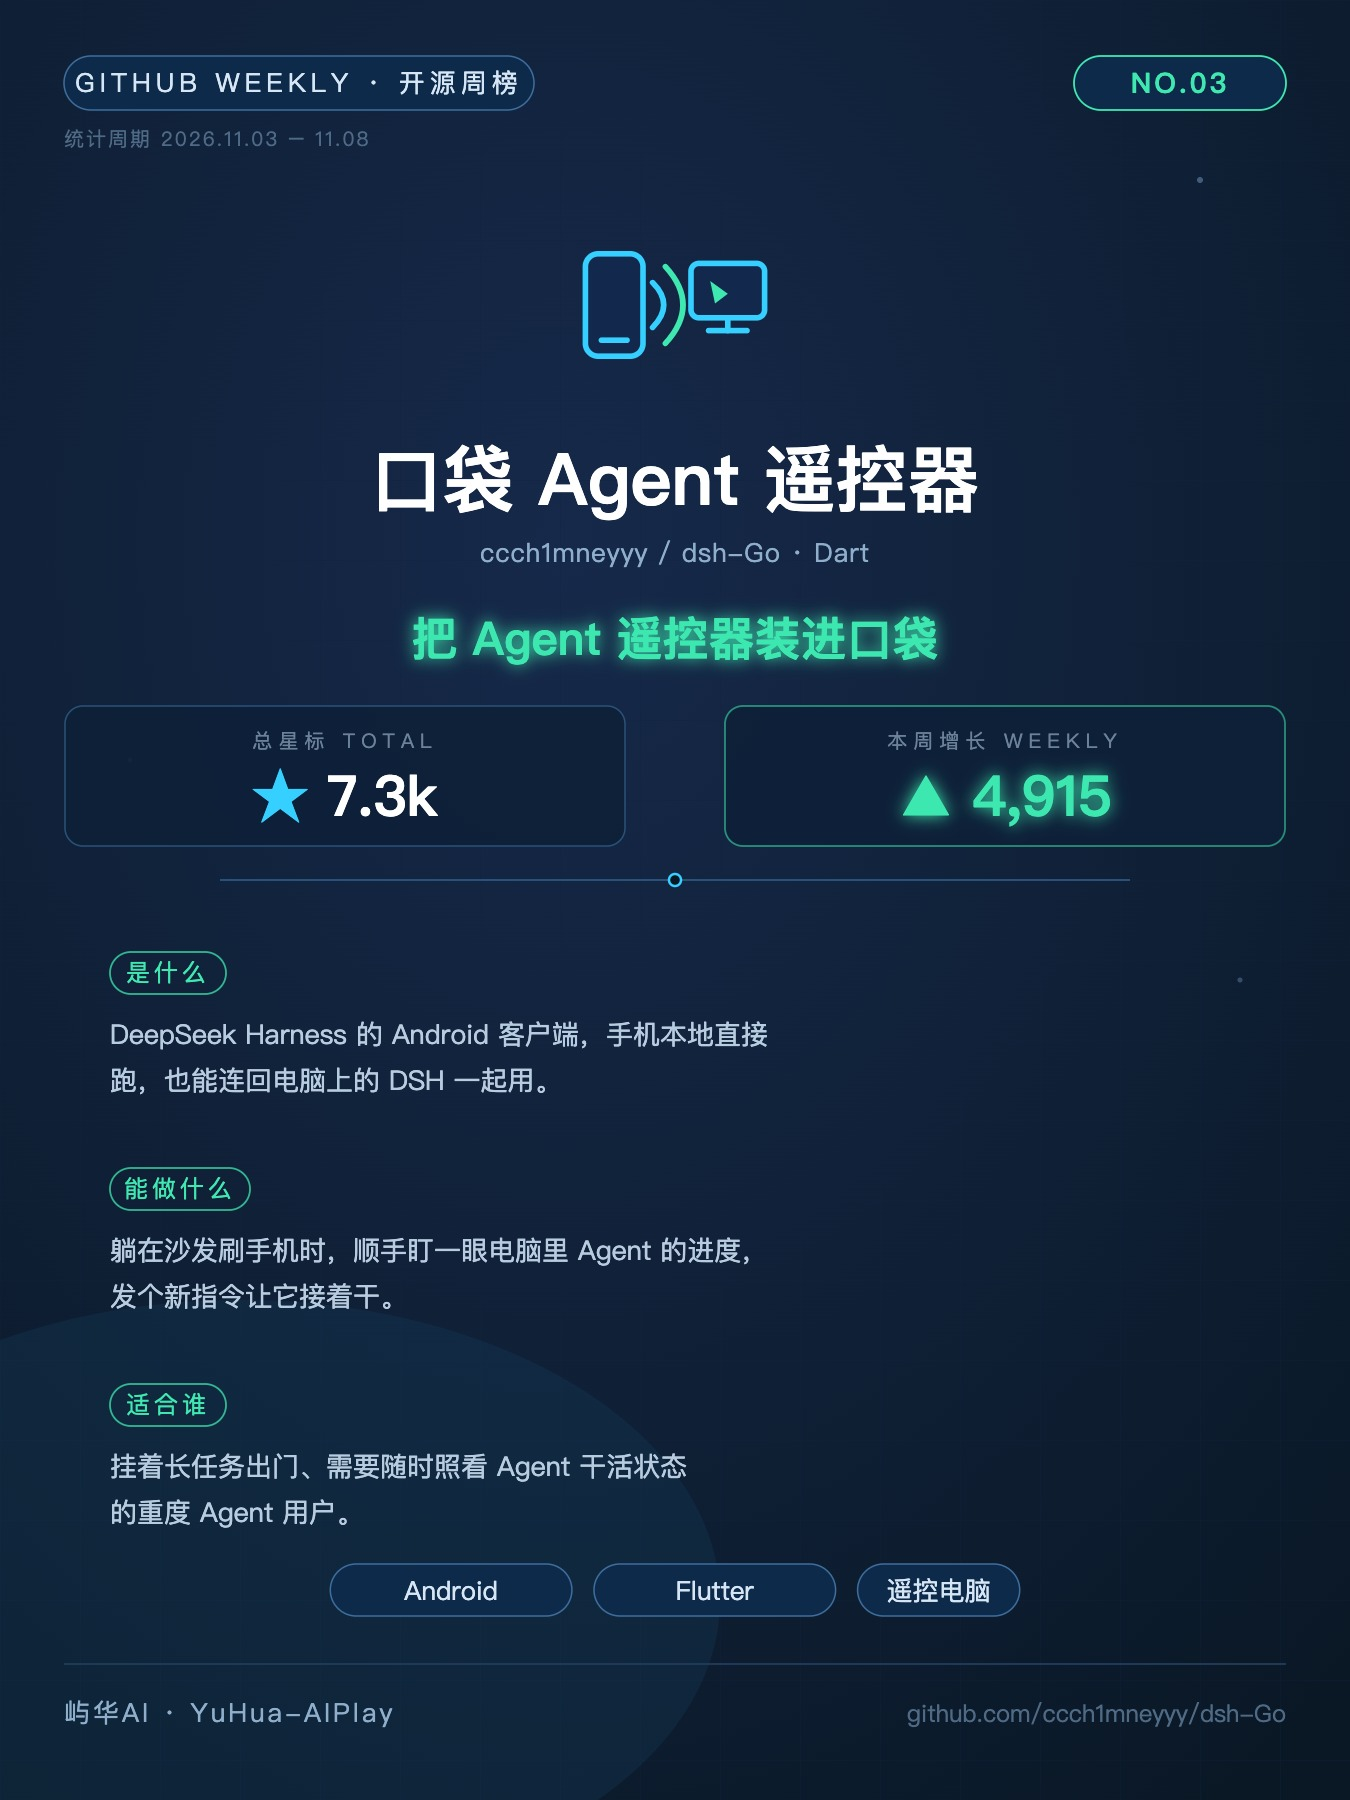
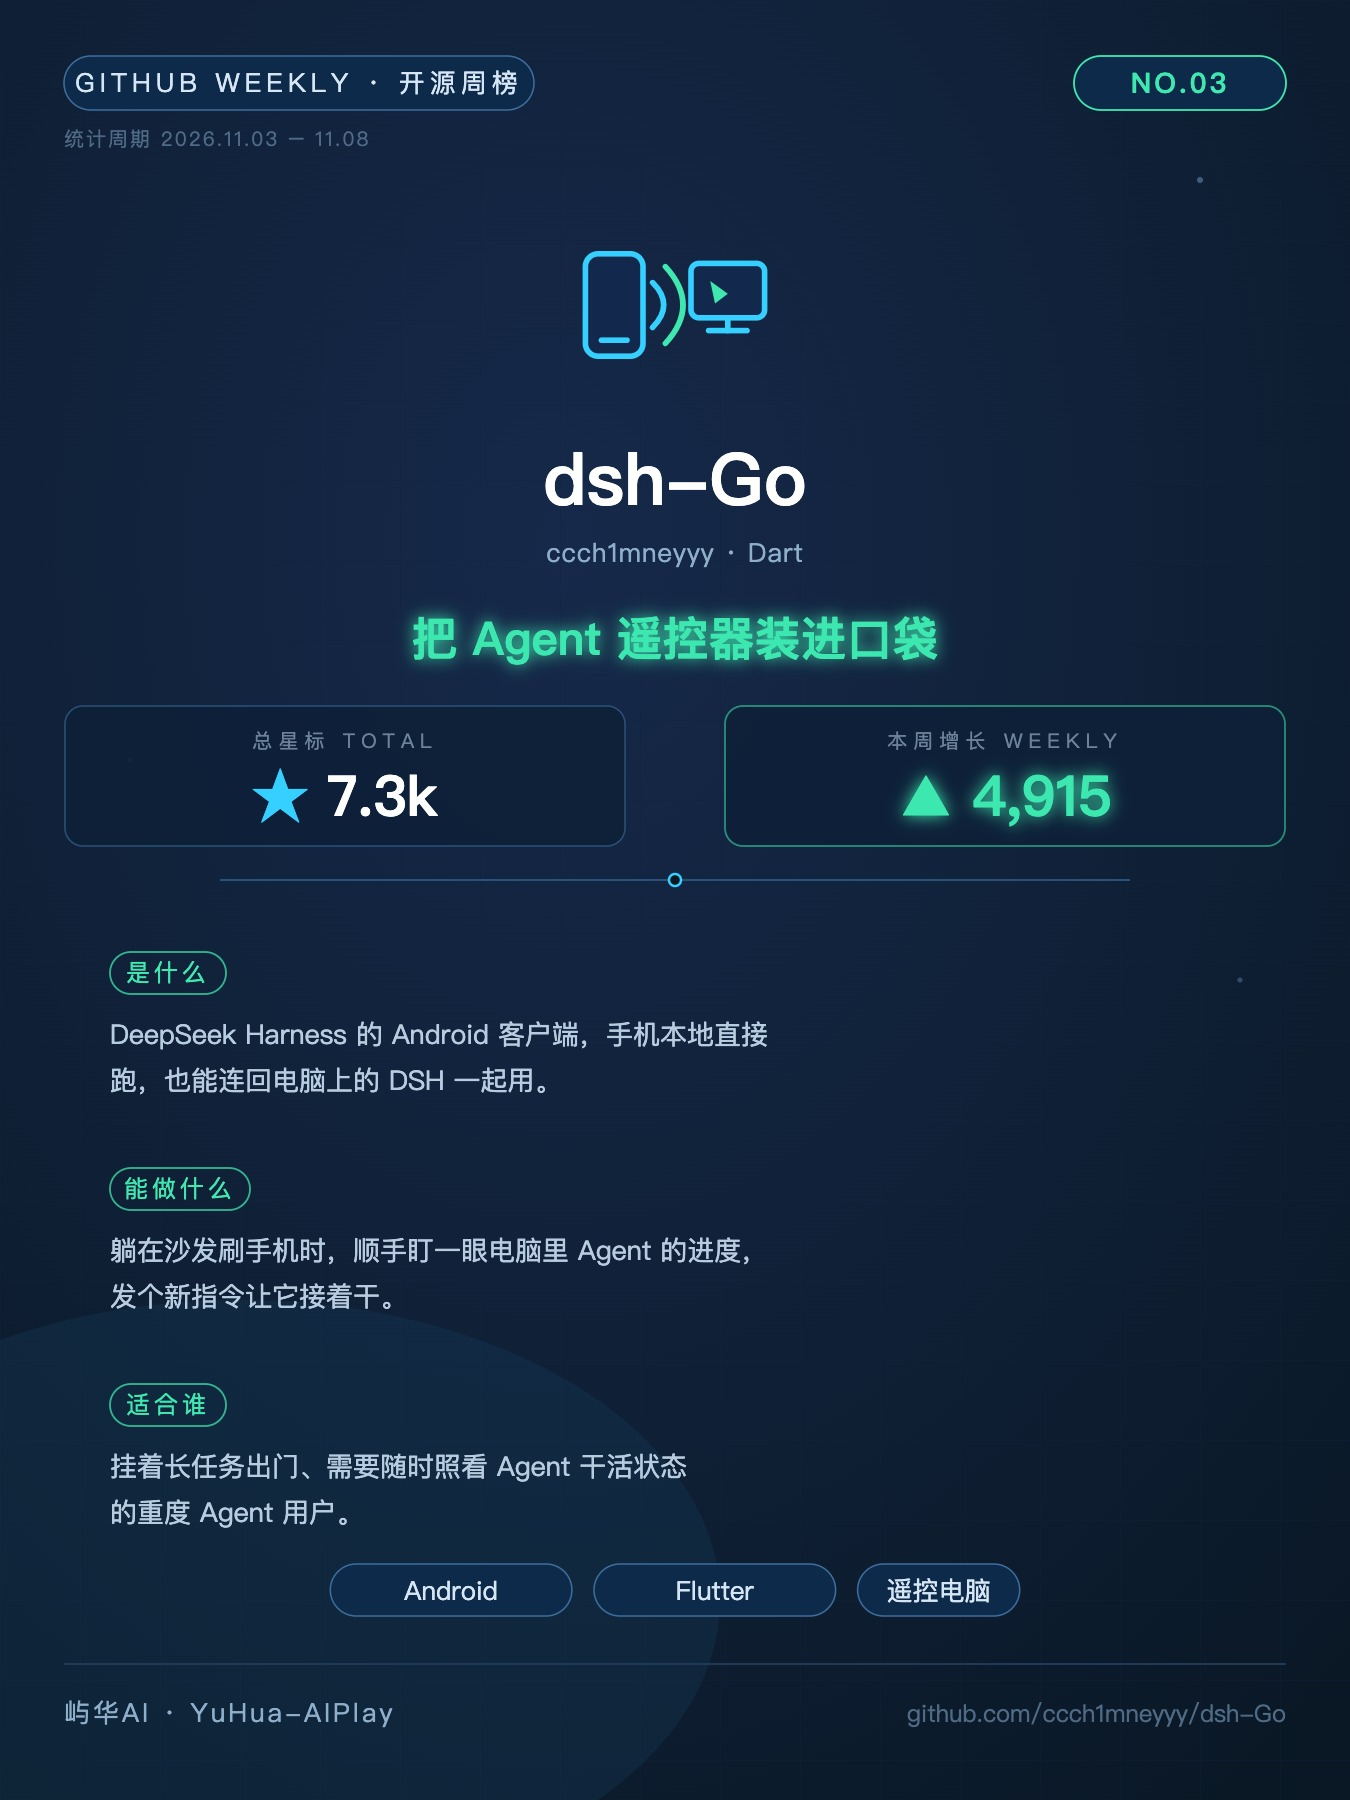
GitHub周榜: 子图大标题改用项目名（去中文概括，小字留作者·语言）
- 8 张子图标题统一为仓库原名（如 dsh-superagent-prototype），中文概括移除
- 标题下小字改为「作者 · 语言」，不再重复仓库全名
- 长项目名（>16 字符）标题自动降一档字号，防止撑爆宽度
- 8 张 JPG 重渲染，长标题卡（01/02）视觉核查通过

Changed region(s): [[0.28, 0.2489, 0.7467, 0.3111]]

diff --git a/drafts/GitHub周榜-本周涨星最快的8个开源项目/img-src/gen-cards.js b/drafts/GitHub周榜-本周涨星最快的8个开源项目/img-src/gen-cards.js
@@ -1,5 +1,5 @@
 // 生成 8 张竖版项目卡 SVG（1350×1800，同一模板换数据，保证风格一致）
-// 版式：中文标题 / 作者·仓库小字 / 一句话介绍 / 星数（总星标+周增长）/ 正文三段（是什么·能做什么·适合谁）
+// 版式：项目名标题 / 作者·语言小字 / 一句话介绍 / 星数（总星标+周增长）/ 正文三段（是什么·能做什么·适合谁）
 // 用法: node img-src/gen-cards.js  → 输出 img-src/01-xxx.svg … 08-xxx.svg
 const fs = require('fs');
 const path = require('path');
@@ -8,7 +8,7 @@ const { ICONS } = require('./icons');
 const CARDS = [
   {
     file: '01-dsh-superagent', icon: 'superagent', no: 1, owner: 'deepseek-ai',
-    repo: 'dsh-superagent-prototype', lang: 'TypeScript', cn: '超级 Agent 原型',
+    repo: 'dsh-superagent-prototype', lang: 'TypeScript',
     pitch: '迈向更自主的 Agent',
     total: '16.4k', growth: '14,286',
     what: ['DeepSeek 官方放出的研究原型，最大胆的一点：训练', '反馈全部由 AI 给出，没有人工标注——「AI 写的 AI」。'],
@@ -18,7 +18,7 @@ const CARDS = [
   },
   {
     file: '02-game-studios', icon: 'gamestudio', no: 2, owner: 'Donchitos',
-    repo: 'Claude-Code-Game-Studios', lang: 'Shell', cn: 'AI 游戏工作室',
+    repo: 'Claude-Code-Game-Studios', lang: 'Shell',
     pitch: '一句话，出一个能玩的游戏',
     total: '34.5k', growth: '6,071',
     what: ['把 Claude Code 变成完整游戏工作室：49 个 AI agent、', '72 项工作流技能，按真实工作室的层级分工协作。'],
@@ -28,7 +28,7 @@ const CARDS = [
   },
   {
     file: '03-dsh-go', icon: 'remote', no: 3, owner: 'ccch1mneyyy',
-    repo: 'dsh-Go', lang: 'Dart', cn: '口袋 Agent 遥控器',
+    repo: 'dsh-Go', lang: 'Dart',
     pitch: '把 Agent 遥控器装进口袋',
     total: '7.3k', growth: '4,915',
     what: ['DeepSeek Harness 的 Android 客户端，手机本地直接', '跑，也能连回电脑上的 DSH 一起用。'],
@@ -38,7 +38,7 @@ const CARDS = [
   },
   {
     file: '04-ub-mode', icon: 'skillfile', no: 4, owner: 'unclebob',
-    repo: 'ub-mode', lang: 'Skill 文件', cn: '大叔的工程纪律',
+    repo: 'ub-mode', lang: 'Skill 文件',
     pitch: '给 Agent 立工程纪律',
     total: '6.8k', growth: '4,603',
     what: ['《代码整洁之道》作者 Uncle Bob 出品的 Agent 技能，', '仓库里只有一份 SKILL.md，没有一行多余代码。'],
@@ -48,7 +48,7 @@ const CARDS = [
   },
   {
     file: '05-unslop', icon: 'uiwin', no: 5, owner: 'heydamir',
-    repo: 'unslop', lang: 'JavaScript', cn: '去 AI 味界面术',
+    repo: 'unslop', lang: 'JavaScript',
     pitch: '去掉界面的一眼 AI 味',
     total: '7.3k', growth: '3,945',
     what: ['一份通用界面设计技能，专治「一眼 AI」的模板脸：', '紫色渐变、到处发光、emoji 堆砌。'],
@@ -58,7 +58,7 @@ const CARDS = [
   },
   {
     file: '06-craft-anything', icon: 'craft', no: 6, owner: 'storytold',
-    repo: 'craft-anything', lang: 'Rust', cn: '桌面软件复刻机',
+    repo: 'craft-anything', lang: 'Rust',
     pitch: '看懂它，然后复刻它',
     total: '7.7k', growth: '3,836',
     what: ['Rust 桌面应用，内置 Study → Build → Check → Ready', '四步流水线，320 个工具个个是 CLI + MCP 双形态。'],
@@ -68,7 +68,7 @@ const CARDS = [
   },
   {
     file: '07-anatomy', icon: 'isoplay', no: 7, owner: 'wheresryan22',
-    repo: 'anatomy', lang: 'JavaScript', cn: '概念动画解剖图',
+    repo: 'anatomy', lang: 'JavaScript',
     pitch: '把概念画成会动的机器',
     total: '24.4k', growth: '3,391',
     what: ['一个 Agent 技能：把真实机器和复杂系统画成零件', '精确的等距插画，支持 SVG / WebGL / 3D 效果。'],
@@ -78,7 +78,7 @@ const CARDS = [
   },
   {
     file: '08-mika', icon: 'boltphone', no: 8, owner: 'wangzan101',
-    repo: 'Mika', lang: 'Kotlin', cn: '隐形屏端侧 Agent',
+    repo: 'Mika', lang: 'Kotlin',
     pitch: '手机里的贴身 Agent',
     total: '6.0k', growth: '3,339',
     what: ['Android 端侧 AI 助手：利用手机隐藏的后台屏替你', '操作 App 和网页，前台照常归你用。'],
@@ -135,6 +135,7 @@ function card(c) {
   const top3 = c.no <= 3;
   const noColor = top3 ? '#3EE8B0' : '#7FA8D0';
   const noStroke = top3 ? '#3EE8B0' : '#3E6E9E';
+  const titleFs = c.repo.length > 16 ? 54 : 72; // 长项目名缩小一档，防止撑爆宽度
   return `<svg xmlns="http://www.w3.org/2000/svg" viewBox="0 0 1350 1800" font-family="'PingFang SC','Hiragino Sans GB',sans-serif">
   <defs>
     <radialGradient id="bgGlow" cx="42%" cy="30%" r="85%">
@@ -166,9 +167,9 @@ function card(c) {
   <!-- 专属图标 -->
   <use href="#ic-${c.icon}" transform="translate(675 305) scale(1.6)"/>
 
-  <!-- 标题 + 作者/仓库小字 -->
-  <text x="675" y="505" text-anchor="middle" font-size="72" font-weight="800" fill="#FFFFFF">${c.cn}</text>
-  <text x="675" y="562" text-anchor="middle" font-size="26" letter-spacing="1" fill="#8FAECB">${c.owner} / ${c.repo} · ${c.lang}</text>
+  <!-- 项目名标题 + 作者·语言小字 -->
+  <text x="675" y="505" text-anchor="middle" font-size="${titleFs}" font-weight="800" fill="#FFFFFF">${c.repo}</text>
+  <text x="675" y="562" text-anchor="middle" font-size="26" letter-spacing="1" fill="#8FAECB">${c.owner} · ${c.lang}</text>
 
   <!-- 一句话介绍 -->
   <text x="675" y="655" text-anchor="middle" font-size="46" font-weight="700" fill="#3EE8B0" filter="url(#glowGreen)">${c.pitch}</text>
